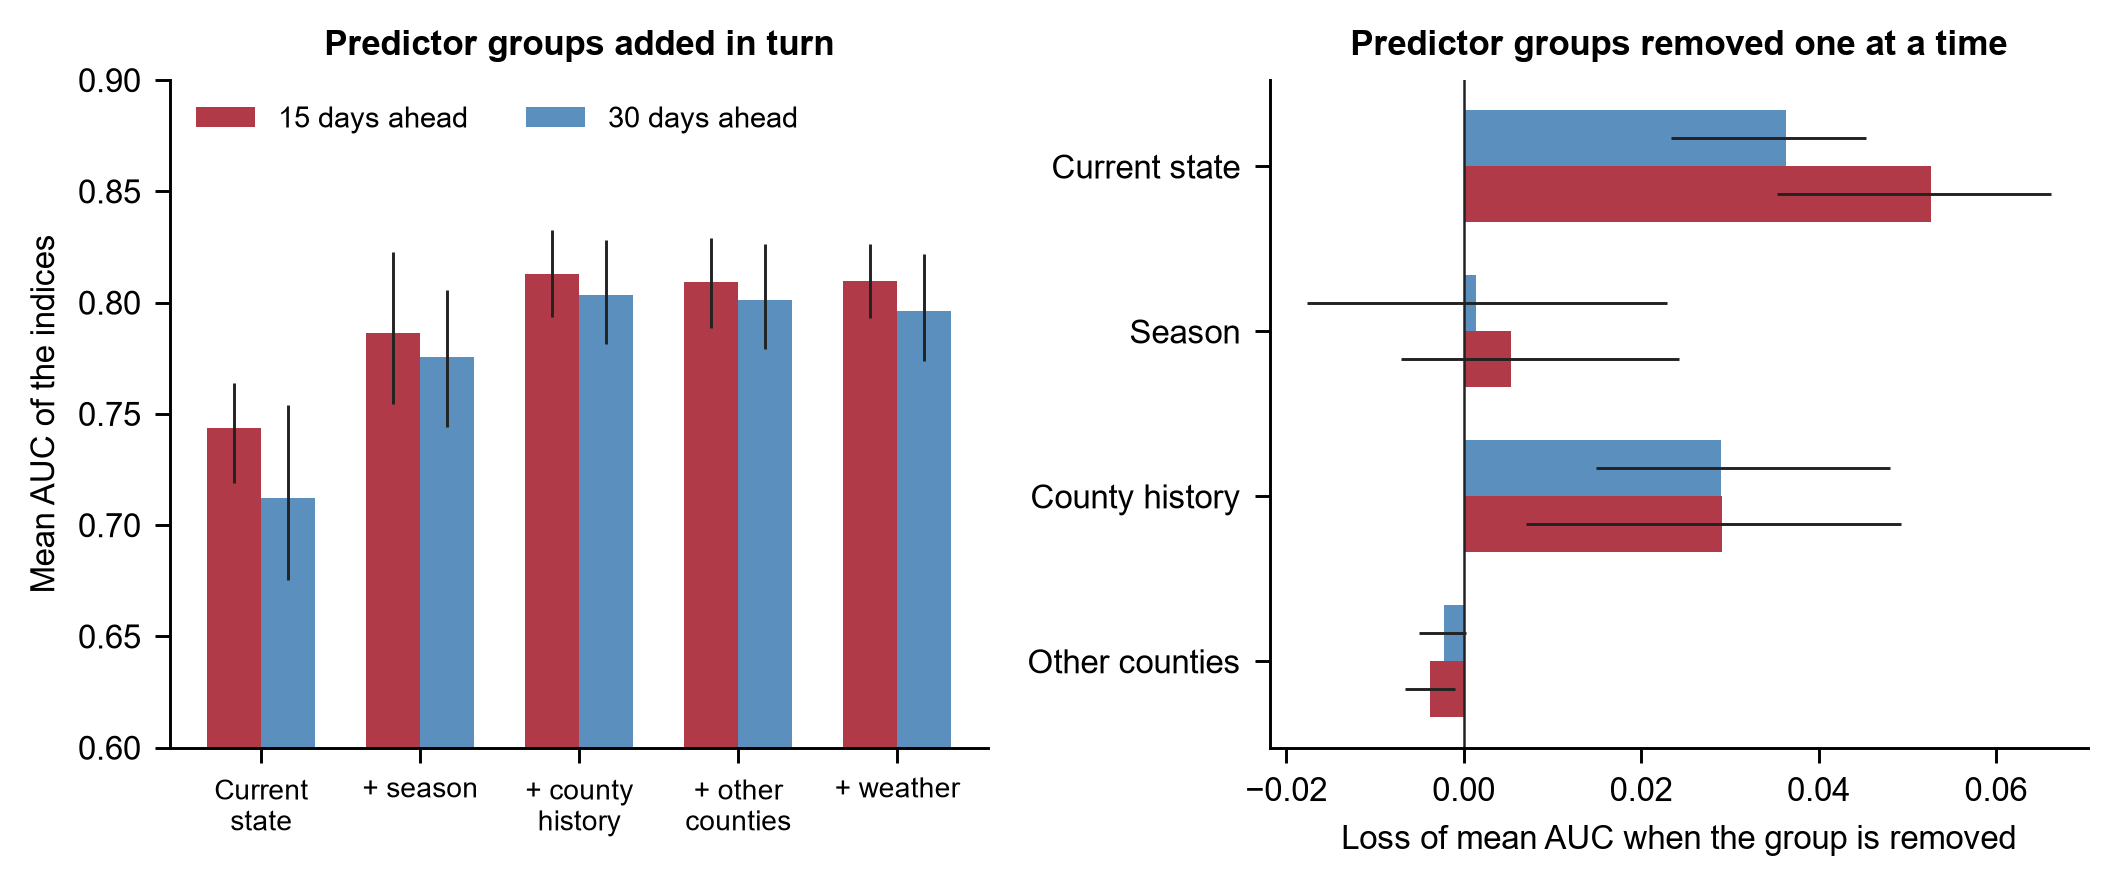
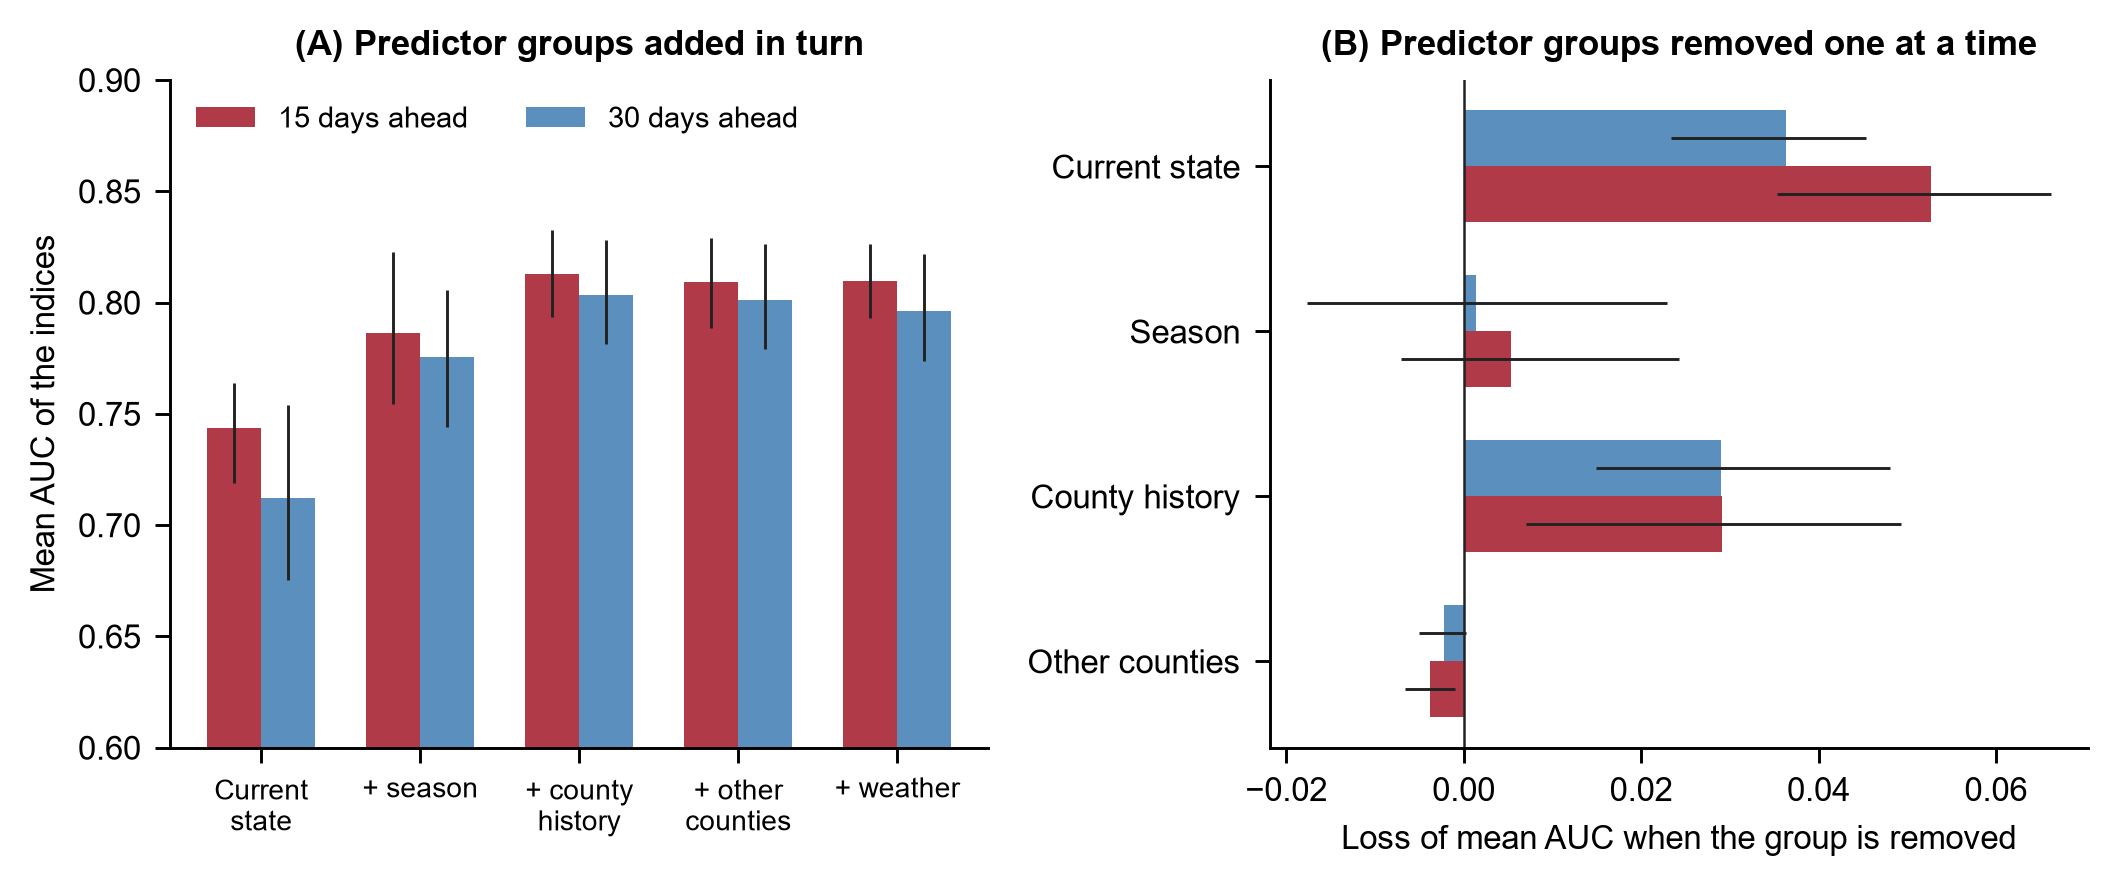
Panel labels in Figure 7

Changed region(s): [[0.6232, 0.0305, 0.966, 0.0914], [0.1246, 0.0305, 0.4051, 0.0609]]

diff --git a/src/figures.py b/src/figures.py
@@ -168,7 +168,7 @@ def fig8_ablation(tables: Path, out: Path) -> None:
         axes[0].bar(np.arange(len(build)) + off, g.AUC, width=0.34, color=c, label=f"{15 * h} days ahead")
         axes[0].errorbar(np.arange(len(build)) + off, g.AUC, yerr=[g.AUC - g.AUC_low, g.AUC_high - g.AUC], fmt="none", ecolor=INK, lw=0.7)
     axes[0].set_xticks(range(len(build))); axes[0].set_xticklabels(lab, fontsize=6.8)
-    axes[0].set_ylim(0.6, 0.90); axes[0].set_ylabel("Mean AUC of the indices"); axes[0].set_title("Predictor groups added in turn")
+    axes[0].set_ylim(0.6, 0.90); axes[0].set_ylabel("Mean AUC of the indices"); axes[0].set_title("(A) Predictor groups added in turn")
     axes[0].legend(loc="upper left", fontsize=7, ncol=2)
     drop = ["Pooled without state", "Pooled without season", "Pooled without history", "Pooled without neighbours"]
     lab2 = ["Current state", "Season", "County history", "Other counties"]
@@ -178,7 +178,7 @@ def fig8_ablation(tables: Path, out: Path) -> None:
         axes[1].errorbar(g.dAUC, np.arange(len(drop))[::-1] + off, xerr=[g.dAUC - g.low, g.high - g.dAUC], fmt="none", ecolor=INK, lw=0.7)
     axes[1].axvline(0, color=INK, lw=0.6)
     axes[1].set_yticks(np.arange(len(drop))[::-1]); axes[1].set_yticklabels(lab2)
-    axes[1].set_xlabel("Loss of mean AUC when the group is removed"); axes[1].set_title("Predictor groups removed one at a time")
+    axes[1].set_xlabel("Loss of mean AUC when the group is removed"); axes[1].set_title("(B) Predictor groups removed one at a time")
     fig.tight_layout()
     save(fig, out, "figure07_predictor_groups")
 
